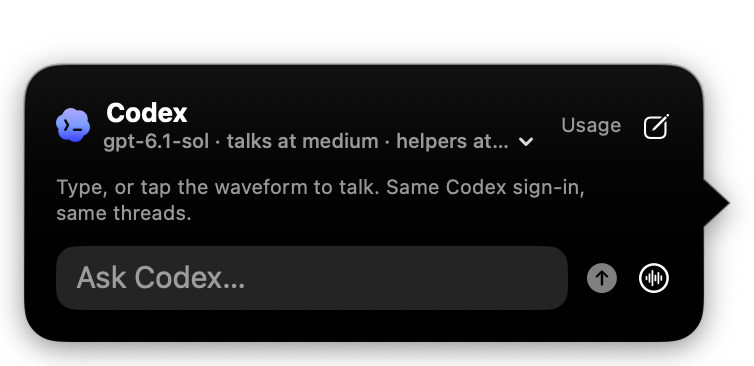
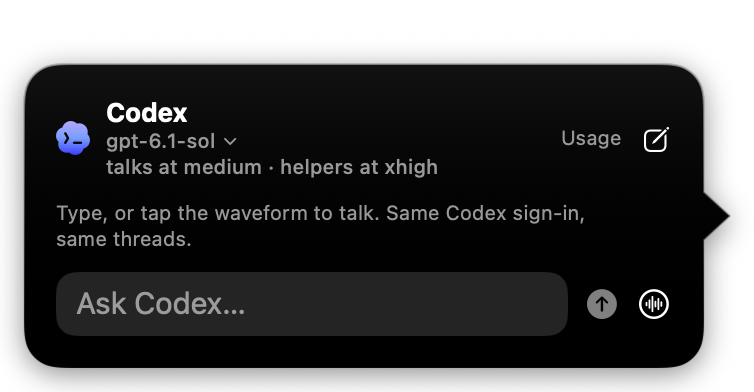
Pulse: the pet header shows the full effort split on its own line
The work-model menu shows the model (with its effort when the pet and helpers share one), and the
split line below shows "talks at … · helpers at …" and anything pending, so the helpers' effort is
no longer cut off. The menu label is drawn plain, so it lines up with the lines around it. The
README's pet-card screenshot shows the new header.

diff --git a/Sources/Pulse/Views.swift b/Sources/Pulse/Views.swift
@@ -315,9 +315,12 @@ struct PetCard: View {
                 VStack(alignment: .leading, spacing: 0) {
                     Text("Codex").font(.headline)
                     if !session.workModels.isEmpty {
-                        workModelMenu(workDetail ?? "Choose a work model")
-                    } else if let work = workDetail {
-                        Text(work).font(.caption2).foregroundStyle(Ink.secondary(scheme)).lineLimit(1)
+                        workModelMenu(workDetail ?? "Choose a work model", label: modelLine ?? "Choose a work model")
+                    } else if let model = modelLine {
+                        Text(model).font(.caption2).foregroundStyle(Ink.secondary(scheme)).lineLimit(1)
+                    }
+                    if let split = splitLine {   // its own line: a menu label never wraps, so it would cut this off
+                        Text(split).font(.caption2).foregroundStyle(Ink.secondary(scheme)).lineLimit(2)
                     }
                     if let place = placeDetail {
                         Text(place).font(.caption2).foregroundStyle(Ink.secondary(scheme)).lineLimit(1).truncationMode(.middle)
@@ -485,10 +488,23 @@ struct PetCard: View {
     /// Model · folder · since when, as Codex reported them for the open conversation.
     /// Model · effort, as Codex reported them (or the saved choice before a conversation).
     private var workDetail: String? {
+        let parts = [modelLine, splitLine].compactMap { $0 }
+        return parts.isEmpty ? nil : parts.joined(separator: " · ")
+    }
+
+    /// The model, with its effort when the pet and helpers share it.
+    private var modelLine: String? {
+        let split = session.nextSplit != nil || session.helperEffort != nil
+        let parts = [session.shownModel, split ? nil : session.shownEffort].compactMap { $0 }
+        return parts.isEmpty ? nil : parts.joined(separator: " · ")
+    }
+
+    /// The pet's and helpers' efforts when they differ, and what changes from the next open.
+    private var splitLine: String? {
         // Before a conversation opens, the split it will get previews from the pick.
         let next = session.nextSplit
-        let parts = [session.shownModel, next.map { "talks at \($0.talk)" } ?? session.shownEffort.map { session.helperEffort != nil ? "talks at \($0)" : $0 },
-                     next.map { "helpers at \($0.helpers)" } ?? session.helperEffort.map { "helpers at \($0)" },
+        let talk = next.map { "talks at \($0.talk)" } ?? (session.helperEffort != nil ? session.shownEffort.map { "talks at \($0)" } : nil)
+        let parts = [talk, next.map { "helpers at \($0.helpers)" } ?? session.helperEffort.map { "helpers at \($0)" },
                      session.pendingModel.map { "switches to \($0) from the next open" },
                      session.pendingHelperEffort.map { "helpers at \($0) from the next open" }].compactMap { $0 }
         return parts.isEmpty ? nil : parts.joined(separator: " · ")
@@ -503,7 +519,7 @@ struct PetCard: View {
 
     /// The header detail doubles as the work-model menu: the model doing Codex's work and its effort,
     /// never the voice's own realtime model.
-    private func workModelMenu(_ detail: String) -> some View {
+    private func workModelMenu(_ detail: String, label: String) -> some View {
         let planned = session.nextSplit != nil ? " (for the next conversation)" : ""
         return Menu {
             Section("Work model · the voice stays the same") {
@@ -518,9 +534,14 @@ struct PetCard: View {
                 }
             }
         } label: {
-            Text(detail).font(.caption2).foregroundStyle(Ink.secondary(scheme)).lineLimit(1).truncationMode(.tail)
+            HStack(spacing: 3) {
+                Text(label).lineLimit(1).truncationMode(.tail)
+                Image(systemName: "chevron.down").font(.system(size: 7, weight: .semibold))
+            }
+            .font(.caption2).foregroundStyle(Ink.secondary(scheme))
         }
-        .menuStyle(.borderlessButton)
+        .menuStyle(.button).buttonStyle(.plain)   // a plain label lines up with the lines around it
+        .fixedSize()
         .disabled(session.choosingWork)
         .help("Work model: \(detail)\(planned). Choose the model and effort Codex works with; the voice doesn't change. With helpers and an effort above medium, the pet talks at medium and helpers work at the effort you pick; a new helper effort, or a model that can't run the helpers' current effort, applies from the next conversation or Pulse restart.")
         .accessibilityLabel("Work model: \(detail)\(planned)")
